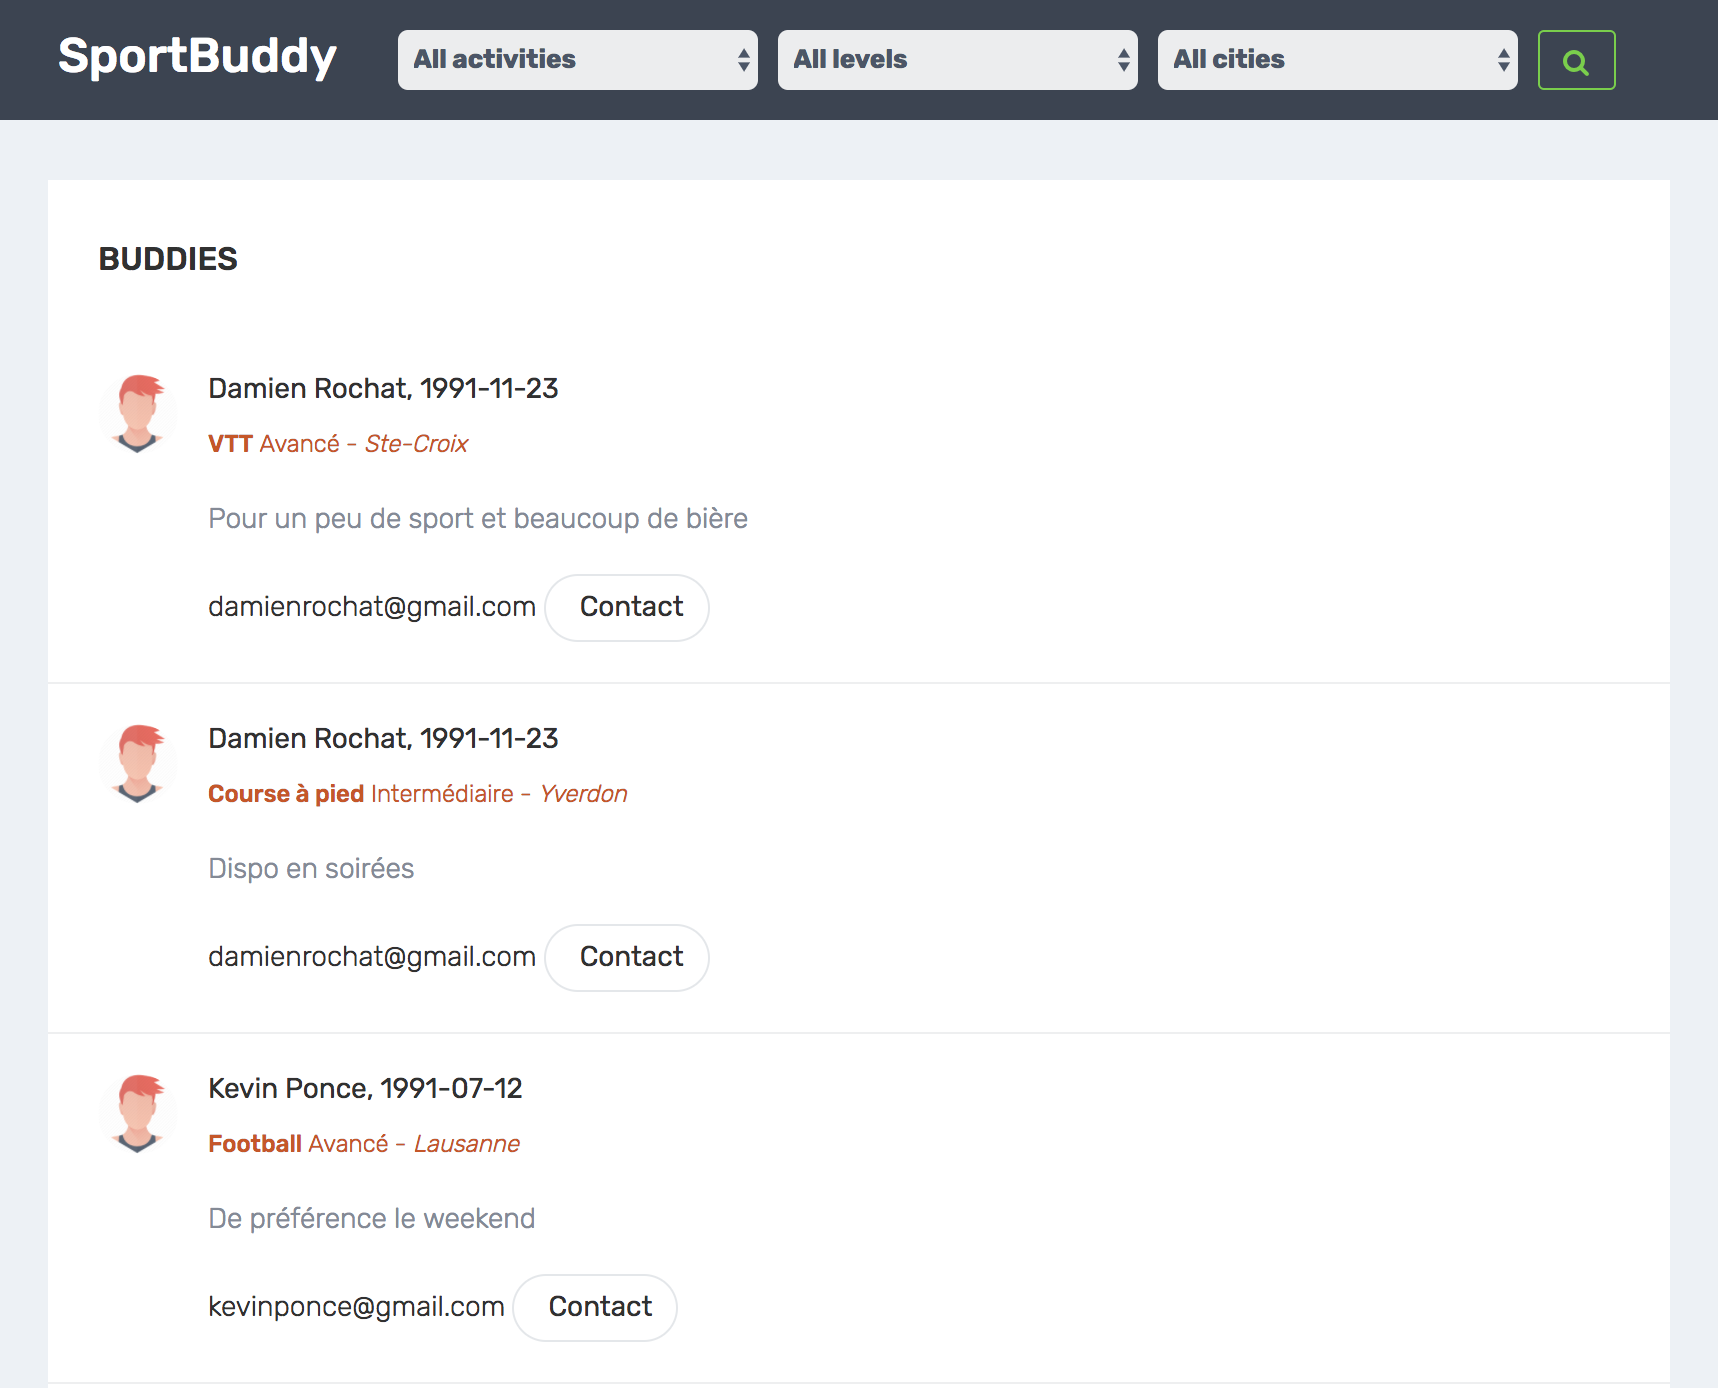
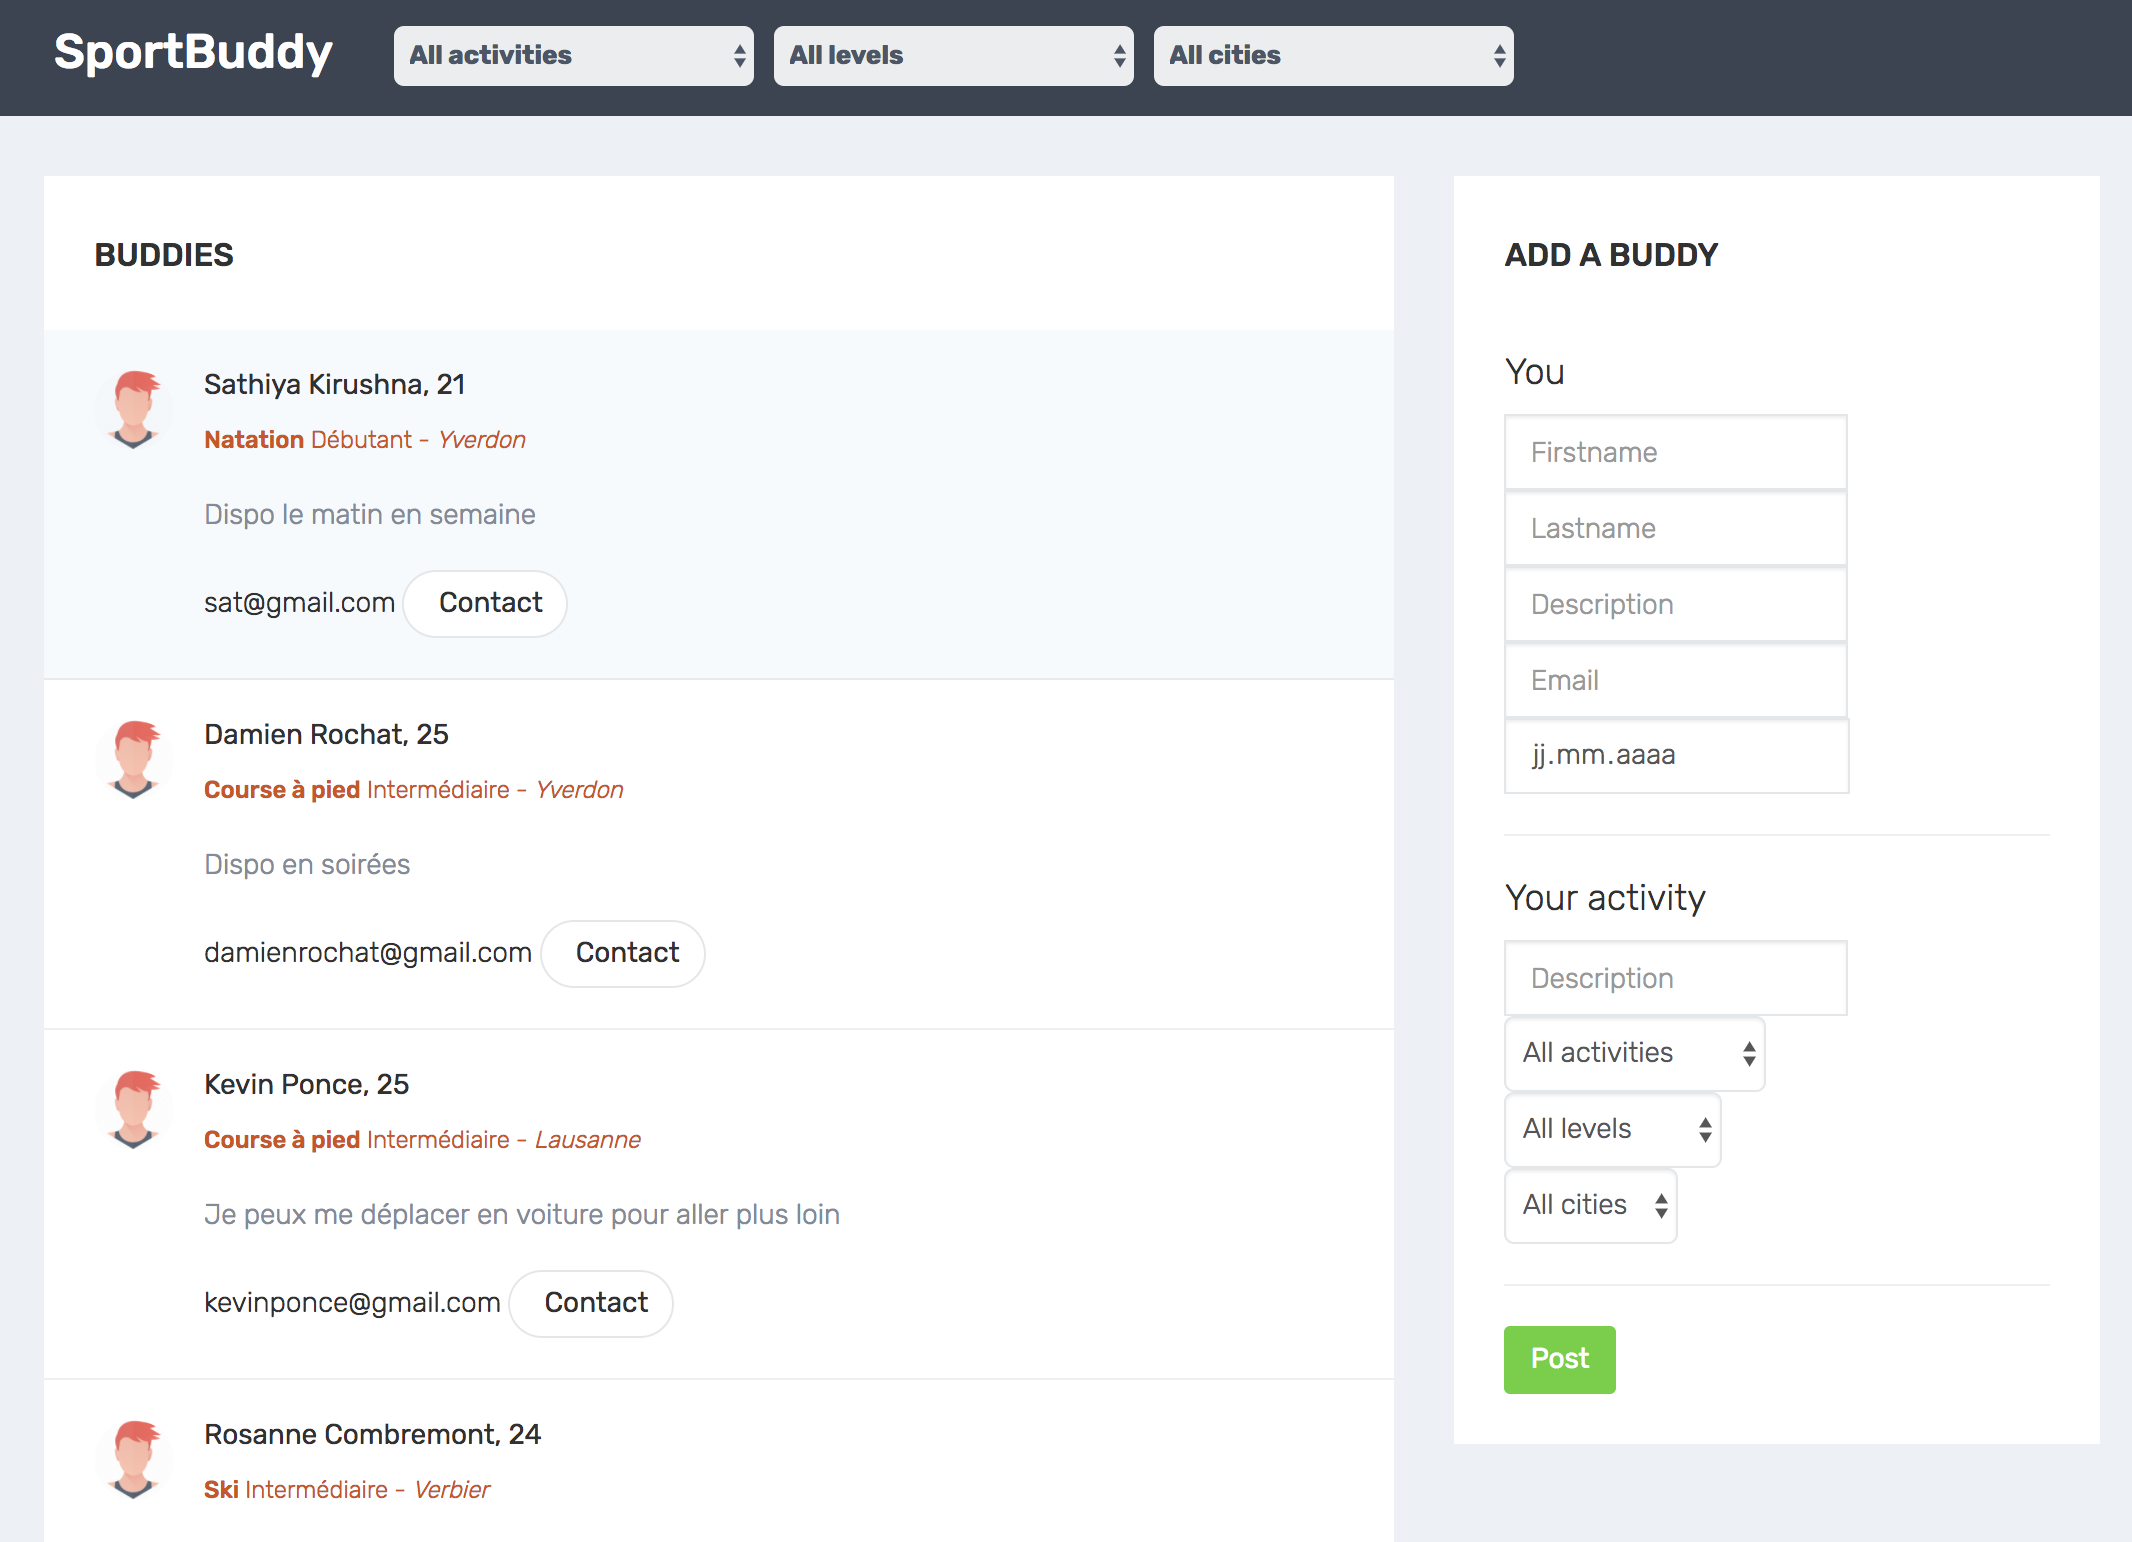
description + problems encoutered

diff --git a/README.md b/README.md
@@ -1,12 +1,14 @@
 # Scala Project - Sportbuddy
 
-*Heig-vd - 12.06.17*
+*School project in HEIG-VD - 12.06.17*
 
-Repo: https://github.com/sebastienrichoz/sportbuddy (*still under development*)
-
-This project is a simple web application letting you find sport partners by specifying the activity, level and city you target.
+This project is a basic web application using developped with Scala Play, ScalaJS, and Slick letting you find sport partners by specifying the activity, level and city you wish. You also can add a buddy with the dedicated form on the right of the underlying screenshot of the app.
 
 ![Architecture](doc/screen.png)
+
+The list of buddies refreshes automatically after choosing one of the filters present in the header bar.
+
+To keep it simple, there is no logging nor account creation as they would be in such applications. The user is free to create any buddies and is limited in the choice of activities, levels and cities by the data present in database. The purpose is to use get and post requests.
 
 ## Technologies
 
@@ -123,6 +125,10 @@ Then requests to get all buddies, activities, levels, and cities are executed to
 Finally, the user searchs for buddies by choosing an appropriate activity, level, and/or city. These actions result in as many GET requests as the search button is clicked.
 
 ![UML](doc/requests.png)
+
+### Problems encountered and how we solved them
+
+One problem we had was to make an sql mutliple inner join query with slick. We attempted to do it in two different manners (as you can see in `server/app/sportbuddy/models/Buddy.scala`) but we finally choosed the old school way, i.e. writing it with plain sql.
 
 ### Authors
 [Sébastien Richoz](mailto:sebastien.richoz1@heig-vd.ch), [Damien Rochat](mailto:damien.rochat@heig-vd.ch)
